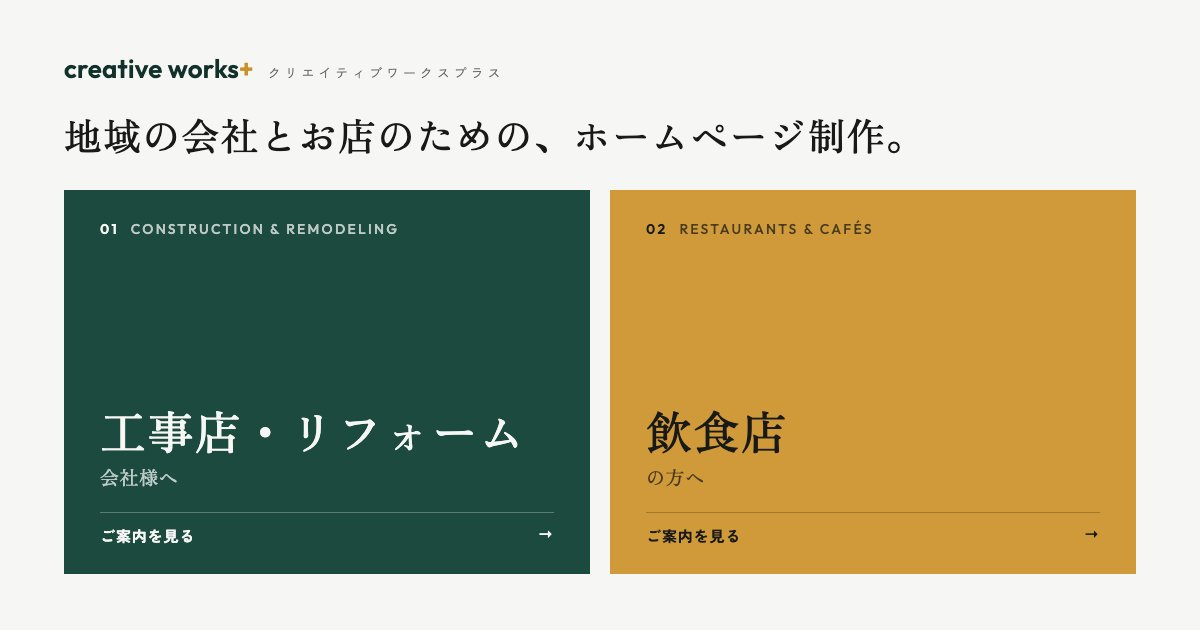
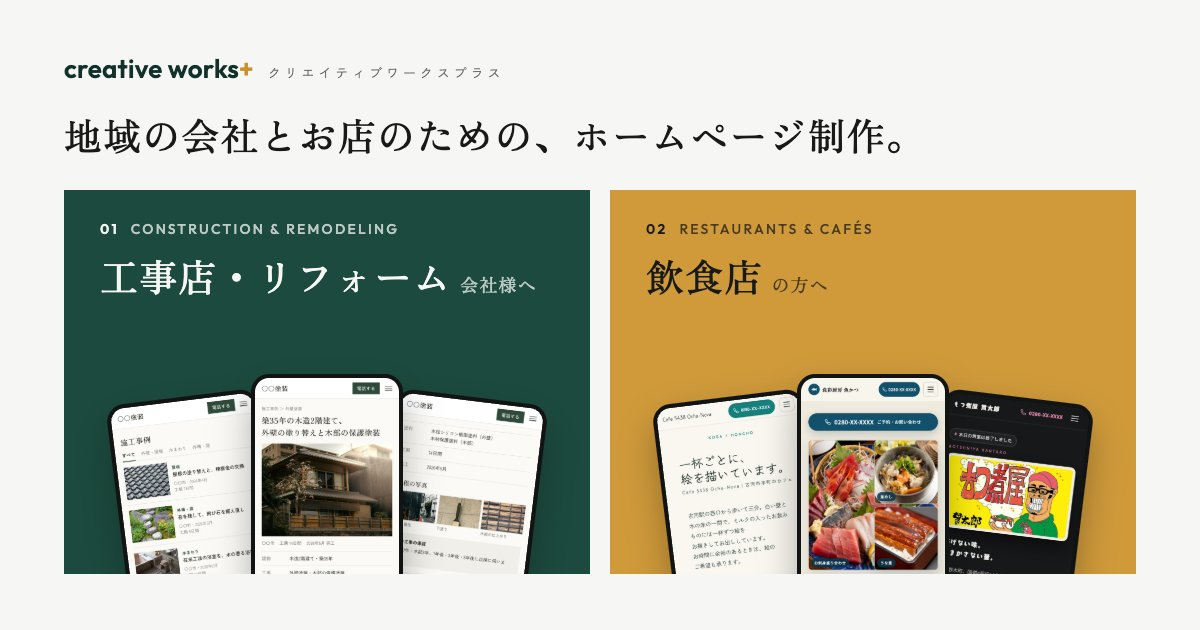
自社LPの入口：扉に見本のスマホ画面を3枚のぞかせる
- 色の面と文字だけでは「地味。クリックしたくなる引きがない」ため、押した先でできあがる画面を見せる
- 工事店＝架空の〇〇塗装の施工事例ページ、飲食店＝飲食店LPと同じ見本サイトの画面
- マウスを乗せると画面が持ち上がって扇が開く。共有用画像（ogp-gate.jpg）も同じ見せ方に

diff --git a/company/index.html b/company/index.html
@@ -142,11 +142,13 @@
 <script>document.documentElement.classList.add('js');</script>
 <style>
 /* ==========================================================================
-   入口（2026-10-03 作り直し・3回目：写真を使わない）
+   入口（2026-10-03 作り直し・4回目：色の面＋大きな明朝＋見本のスマホ画面）
    ・このページの仕事は「工事店・リフォーム」「飲食店」のどちらかを選んでいただくことだけ
-   ・扉は写真ではなく「色の面＋大きな明朝」で見せる（本の表紙の組み方）。
+   ・扉は「色の面＋大きな明朝」に、開いた先でできあがる「ホームページのスマホ画面」を3枚のぞかせる。
      左＝濃緑、右＝金。どちらもロゴ（creative works＋）の2色
-     ★丸藤さん「家の入口とご飯は説明としては合っているが、見た目が悪い。画像なしでよいのでモダンに」（2026-10-03）
+     ★丸藤さん「家の入口とご飯は説明としては合っているが、見た目が悪い。画像なしでよいのでモダンに」（2026-10-03 昼）
+       → 色の面と文字だけにしたら「地味。クリックしたくなる引きがない」（同日）→ 中身（見本の画面）を見せる
+     ・工事店の画面は架空の「〇〇塗装」（版下 _work/gate-mock-reform.html）、飲食店の画面は飲食店LPの works/hero/ と同じもの
    ・★スマホでも2つを左右に並べ、最初の1画面に両方を見せる（縦に積むと、上の1つだけ見て
      「自分向けではない」と離脱される＝丸藤さんの指摘）。iPhone SE（見える高さ約548px）でも収める
    ・扉に金額は載せない（15万円と25万円を同じ画面に並べない＝サービスの定義.md ⑯）
@@ -223,13 +225,15 @@ h1, h2, h3, p, dd, dt, li { word-break: auto-phrase; text-wrap: pretty; }
 .lead { font-size: 14px; color: var(--ink-2); max-width: 25em; line-height: 1.9; }
 
 /* ---------- 扉（2つを左右に並べる。スマホでも縦に積まない） ----------
+   扉の上半分に言葉、下半分に「できあがるホームページのスマホ画面」を3枚、扇のように並べて下へはみ出させる。
+   ★押した先に何があるかが見えないと押されない（色の面と文字だけの版は「地味で、クリックしたくなる引きがない」＝丸藤さん 2026-10-03）
    扉の高さは「画面の高さ − 扉より上」。上の高さは JS が測って --above に入れる */
 .doors { display: grid; grid-template-columns: minmax(0, 1fr) minmax(0, 1fr); gap: var(--gap); }
 .door {
   --bg: var(--a-bg); --bg-on: var(--a-bg-on); --fg: var(--a-fg); --sub: var(--a-sub); --rule: var(--a-rule);
-  position: relative; display: flex; flex-direction: column; min-width: 0;
+  position: relative; display: flex; flex-direction: column; min-width: 0; overflow: hidden;
   height: var(--door-h);
-  padding: clamp(28px, 3vw, 44px) clamp(28px, 3.2vw, 48px) clamp(26px, 2.8vw, 40px);
+  padding: clamp(26px, 2.8vw, 40px) clamp(26px, 3vw, 44px) 0;
   background: var(--bg); color: var(--fg); text-decoration: none;
   transition: background-color .45s ease;
 }
@@ -238,45 +242,62 @@ h1, h2, h3, p, dd, dt, li { word-break: auto-phrase; text-wrap: pretty; }
 /* 左右の扉の中の段（番号／宛名／ひとこと／業種／進む）を、行の高さごとそろえる。
    片方だけ説明が2行に折れても、宛名と説明の位置が左右でずれない（320pxでずれた＝2026-10-03） */
 @supports (grid-template-rows: subgrid) {
-  .doors { grid-template-rows: auto 1fr auto auto auto; row-gap: 0; height: var(--door-h); }
-  .door { display: grid; grid-row: 1 / -1; grid-template-rows: subgrid; row-gap: 0; height: auto; }
-  .door-for { align-self: end; }
+  .doors { grid-template-rows: auto auto auto auto auto 1fr; row-gap: 0; height: var(--door-h); }
+  .door { display: grid; grid-row: 1 / -1; grid-template-rows: subgrid; row-gap: 0; height: auto; align-content: start; }
 }
 
 /* 上：番号と欧文の小さな見出し */
 .door-top {
   display: flex; align-items: baseline; gap: 14px;
-  font-family: var(--font-latin); font-size: 13px; font-weight: 500; letter-spacing: 0.16em; line-height: 1.4;
+  font-family: var(--font-latin); font-size: 12.5px; font-weight: 500; letter-spacing: 0.16em; line-height: 1.4;
 }
 .door-top .no { font-weight: 600; }
 .door-top .en { color: var(--sub); text-transform: uppercase; }
 
-/* 下に寄せた言葉のかたまり：宛先 → ひとこと → 業種の並び → 進むリンク */
-.door-for { margin-top: auto; font-family: var(--font-display); font-weight: 500; letter-spacing: 0.03em; }
-.door-for .big { display: block; font-size: clamp(28px, 3.5vw, 50px); line-height: 1.3; }
-.door-for .sm { display: block; margin-top: 6px; font-size: clamp(14px, 1.3vw, 18px); line-height: 1.5; color: var(--sub); }
-.door-text { display: block; margin-top: clamp(14px, 1.8vw, 22px); font-size: clamp(14px, 1.15vw, 16px); line-height: 1.8; font-weight: 500; }
-.door-kinds { display: block; margin-top: 4px; font-size: 13px; line-height: 1.8; color: var(--sub); }
+/* 宛先 → ひとこと → 業種の並び → 進むリンク */
+.door-for { margin-top: clamp(14px, 1.8vw, 24px); font-family: var(--font-display); font-weight: 500; letter-spacing: 0.03em; }
+.door-for .big { display: inline; font-size: clamp(26px, 3vw, 44px); line-height: 1.3; }
+.door-for .sm { display: inline; margin-left: .4em; font-size: clamp(14px, 1.3vw, 18px); line-height: 1.5; color: var(--sub); }
+.door-text { display: block; margin-top: clamp(8px, 1vw, 12px); font-size: clamp(14px, 1.1vw, 15.5px); line-height: 1.75; font-weight: 500; }
+.door-kinds { display: block; margin-top: 2px; font-size: 12.5px; line-height: 1.8; color: var(--sub); }
 .door-go {
-  position: relative; display: flex; align-items: center; justify-content: space-between; gap: 12px;
-  margin-top: clamp(20px, 2.6vw, 36px); padding-top: 14px; border-top: 1px solid var(--rule);
+  position: relative; justify-self: start; align-self: start; display: inline-flex; align-items: center; gap: 12px;
+  margin-top: clamp(12px, 1.4vw, 18px); padding-bottom: 6px; border-bottom: 1px solid var(--rule);
   font-size: 14px; font-weight: 700; letter-spacing: 0.06em; line-height: 1.5; white-space: nowrap;
 }
-/* 罫の上を左から右へ走る線（マウスを乗せたとき） */
-.door-go::before {
-  content: ""; position: absolute; left: 0; right: 0; top: -1px; height: 1px; background: currentColor;
-  transform: scaleX(0); transform-origin: left center; transition: transform .7s var(--ease-io);
+/* 下線の上を左から右へ走る線（マウスを乗せたとき） */
+.door-go::after {
+  content: ""; position: absolute; left: 0; right: 0; bottom: -1px; height: 1px; background: currentColor;
+  transform: scaleX(0); transform-origin: left center; transition: transform .6s var(--ease-io);
 }
-.door-go .arw { font-family: var(--font-latin); font-weight: 400; font-size: 18px; line-height: 1; transition: transform .35s var(--ease-out); }
+.door-go .arw { font-family: var(--font-latin); font-weight: 400; font-size: 17px; line-height: 1; transition: transform .35s var(--ease-out); }
 
-/* マウスで選ぶ人だけ：乗せた扉の色が少し深くなり、罫の上を線が走り、矢印が進む（扉の幅は変えない） */
+/* 下：見本のスマホ画面3枚。扉の下の縁で切れる（はみ出したぶんは見せない） */
+.door-screens { position: absolute; left: 0; right: 0; bottom: 0; height: var(--scr-area, 46%); pointer-events: none; }
+.phone {
+  --w: clamp(120px, 15vw, 196px);
+  position: absolute; top: var(--y, 0px); left: calc(50% - var(--w) / 2 + var(--x, 0px));
+  width: var(--w); padding: 5px; border-radius: 22px; background: #121313;
+  box-shadow: 0 24px 48px rgba(10, 14, 12, .32), 0 4px 10px rgba(10, 14, 12, .18);
+  transform: translateY(var(--lift, 0px)) rotate(var(--r, 0deg));
+  transition: transform .8s var(--ease-out);
+}
+.phone img { display: block; width: 100%; height: auto; aspect-ratio: 516 / 936; object-fit: cover; object-position: top; border-radius: 17px; background: #e9e8e4; }
+.phone.p1 { --x: calc(var(--w) * -0.86); --y: 26px; --r: -7deg; }
+.phone.p2 { --x: 0px; --y: 0px; --r: 0deg; z-index: 2; }
+.phone.p3 { --x: calc(var(--w) * 0.86); --y: 26px; --r: 7deg; }
+
+/* マウスで選ぶ人だけ：乗せた扉の色が少し深くなり、画面が持ち上がって扇が開き、下線が走る（扉の幅は変えない） */
 @media (hover: hover) and (pointer: fine) {
   .door:hover { background: var(--bg-on); }
-  .door:hover .door-go::before { transform: scaleX(1); }
+  .door:hover .door-go::after { transform: scaleX(1); }
   .door:hover .door-go .arw { transform: translateX(6px); }
+  .door:hover .phone.p1 { --lift: -10px; --r: -10deg; }
+  .door:hover .phone.p2 { --lift: -18px; }
+  .door:hover .phone.p3 { --lift: -10px; --r: 10deg; }
 }
 .door:active { background: var(--bg-on); }   /* スマホで押した瞬間 */
-
+.screens-note { margin-top: 10px; text-align: right; font-size: 12px; color: var(--muted); line-height: 1.7; }
 /* ---------- 入口の下（スクロールした方へ：何者かと連絡先だけ） ---------- */
 .about { padding: clamp(64px, 9vw, 120px) 0 clamp(56px, 8vw, 104px); }
 .about .wrap { display: grid; grid-template-columns: minmax(0, 5fr) minmax(0, 6fr); gap: clamp(32px, 6vw, 88px); }
@@ -309,15 +330,21 @@ h1, h2, h3, p, dd, dt, li { word-break: auto-phrase; text-wrap: pretty; }
 .foot .wrap { display: flex; justify-content: space-between; gap: 16px; flex-wrap: wrap; font-size: 12.5px; color: var(--muted); }
 .foot .copy { font-family: var(--font-latin); letter-spacing: 0.04em; }
 
-/* ---------- 出だしの動き（読み込んだときに1回だけ。1.5秒以内に止まり、あとは何も動かない） ----------
-   見出し → 扉の色の面が下から上へ開く（左 → 右）→ 扉の言葉（上から順に）
+/* ---------- 出だしの動き（読み込んだときに1回だけ。1.6秒以内に止まり、あとは何も動かない） ----------
+   見出し → 扉の色の面が下から上へ開く（左 → 右）→ 扉の言葉 → スマホ画面が下からせり上がる（中 → 左右）
    ★「視差効果を減らす」設定の人には位置と開く動きを止め、ふわっと出る（不透明度）は同じ時間で残す
      （丸藤さんのMacがこの設定。全部止めると何も動いていないように見える＝2026-10-02） */
-.js .title, .js .lead, .js .door > * { opacity: 0; transform: translateY(14px); }
+.js .title, .js .lead, .js .door > :not(.door-screens) { opacity: 0; transform: translateY(14px); }
+.js .phone { opacity: 0; transform: translateY(70px) rotate(var(--r, 0deg)); }
 .js .door { clip-path: inset(100% 0 0 0); }
-.js .is-ready .title, .js .is-ready .lead, .js .is-ready .door > * {
+.js .is-ready .title, .js .is-ready .lead, .js .is-ready .door > :not(.door-screens) {
   opacity: 1; transform: none;
   transition: opacity .7s var(--ease-out), transform .8s var(--ease-out);
+  transition-delay: var(--d, 0ms);
+}
+.js .is-ready .phone {
+  opacity: 1; transform: translateY(var(--lift, 0px)) rotate(var(--r, 0deg));
+  transition: opacity .6s var(--ease-out), transform 1s var(--ease-out);
   transition-delay: var(--d, 0ms);
 }
 .js .is-ready .door {
@@ -330,49 +357,65 @@ h1, h2, h3, p, dd, dt, li { word-break: auto-phrase; text-wrap: pretty; }
 .js .is-ready .d2 { --d: 240ms; }
 .js .is-ready .d1 > * { --d: 560ms; }
 .js .is-ready .d1 > .door-for { --d: 620ms; }
-.js .is-ready .d1 > .door-text, .js .is-ready .d1 > .door-kinds { --d: 700ms; }
-.js .is-ready .d1 > .door-go { --d: 780ms; }
+.js .is-ready .d1 > .door-text, .js .is-ready .d1 > .door-kinds { --d: 680ms; }
+.js .is-ready .d1 > .door-go { --d: 740ms; }
+.js .is-ready .d1 .p2 { --d: 640ms; }
+.js .is-ready .d1 .p1, .js .is-ready .d1 .p3 { --d: 760ms; }
 .js .is-ready .d2 > * { --d: 680ms; }
 .js .is-ready .d2 > .door-for { --d: 740ms; }
-.js .is-ready .d2 > .door-text, .js .is-ready .d2 > .door-kinds { --d: 820ms; }
-.js .is-ready .d2 > .door-go { --d: 900ms; }
-/* 動きが終わったら clip-path の指定を外す（扉の外へはみ出す枠線を切らないため） */
+.js .is-ready .d2 > .door-text, .js .is-ready .d2 > .door-kinds { --d: 800ms; }
+.js .is-ready .d2 > .door-go { --d: 860ms; }
+.js .is-ready .d2 .p2 { --d: 760ms; }
+.js .is-ready .d2 .p1, .js .is-ready .d2 .p3 { --d: 880ms; }
+/* 動きが終わったら、マウスを乗せたときの速さに戻す */
+.js .is-done .phone { transition: transform .8s var(--ease-out); transition-delay: 0ms; }
 .js .is-done .door { clip-path: none; }
 
 @media (prefers-reduced-motion: reduce) {
-  .js .title, .js .lead, .js .door > * { transform: none; }
+  .js .title, .js .lead, .js .door > :not(.door-screens) { transform: none; }
+  .js .phone { transform: rotate(var(--r, 0deg)); }
+  .js .is-ready .phone { transform: rotate(var(--r, 0deg)); transition-property: opacity; }
   .js .door { clip-path: none; opacity: 0; }
   .js .is-ready .door { opacity: 1; transition: opacity .8s ease-out, background-color .45s ease; transition-delay: var(--d, 0ms), 0ms; }
-  .js .is-ready .title, .js .is-ready .lead, .js .is-ready .door > * { transition-property: opacity; }
-  .door-go::before { transition: none; }
+  .js .is-ready .title, .js .is-ready .lead, .js .is-ready .door > :not(.door-screens) { transition-property: opacity; }
+  .door-go::after { transition: none; }
   .door:hover .door-go .arw, .btn:hover .arw { transform: none; }
+  .door:hover .phone { --lift: 0px; }
+  .door:hover .phone.p1 { --r: -7deg; }
+  .door:hover .phone.p3 { --r: 7deg; }
 }
 
 /* ---------- スマホ ---------- */
 @media (max-width: 760px) {
-  :root { --head-h: 56px; --gap: 8px; }
+  :root { --head-h: 56px; --gap: 8px; --door-h: clamp(330px, calc(100svh - var(--above, 140px) - 16px), 520px); }
   .logo { font-size: 17px; }
   .yomi { display: none; }
   .links { gap: 18px; }
   .links a { font-size: 13px; }
   .intro .wrap { grid-template-columns: 1fr; padding-top: 12px; padding-bottom: 16px; }
   .lead { display: none; }   /* 扉を1画面に収めるため。同じ内容は下の「先に、見本を」に書いてある */
-  :root { --door-h: clamp(300px, calc(100svh - var(--above, 140px) - 16px), 470px); }
-  .door { padding: 16px 14px 14px; }
+  .door { padding: 14px 13px 0; }
   .door-top { gap: 8px; font-size: 10.5px; letter-spacing: 0.12em; }
   .door-top .en-x { display: none; }
-  /* 左は2行・右は1行になる。2行ぶんの高さを取って下にそろえ、左右の言葉の高さをそろえる */
-  .door-for .big { font-size: 23px; line-height: 1.32; min-height: calc(23px * 1.32 * 2); display: flex; flex-direction: column; justify-content: flex-end; }
-  .door-for .sm { margin-top: 4px; font-size: 13px; }
-  .door-text { margin-top: 12px; font-size: 12.5px; line-height: 1.65; }
-  .door-kinds { margin-top: 4px; font-size: 11px; line-height: 1.65; }
-  .door-go { margin-top: 14px; padding-top: 10px; font-size: 13px; letter-spacing: 0.04em; }
-  .door-go .arw { font-size: 16px; }
+  .door-for { margin-top: 10px; }
+  /* 左は2行・右は1行になる。宛名と「会社様へ」は縦に積む */
+  .door-for .big { display: block; font-size: 22px; line-height: 1.32; }
+  .door-for .sm { display: block; margin: 2px 0 0; font-size: 12.5px; }
+  .door-text { display: none; }   /* 画面を見せる場所を空けるため。同じことは開いた先の最初に書いてある */
+  .door-kinds { margin-top: 6px; font-size: 11px; line-height: 1.6; }
+  .door-go { margin-top: 10px; font-size: 12.5px; letter-spacing: 0.04em; gap: 8px; padding-bottom: 4px; }
+  .door-go .arw { font-size: 15px; }
+  .door-screens { --scr-area: 44%; }
+  .screens-note { text-align: left; font-size: 11.5px; }
+  .phone { --w: clamp(84px, 27vw, 120px); padding: 3px; border-radius: 14px; box-shadow: 0 14px 28px rgba(10, 14, 12, .3); }
+  .phone img { border-radius: 11px; }
+  .phone.p1 { --x: calc(var(--w) * -0.62); --y: 18px; --r: -8deg; }
+  .phone.p3 { --x: calc(var(--w) * 0.62); --y: 18px; --r: 8deg; }
   .about .wrap { grid-template-columns: 1fr; }
   .co div { grid-template-columns: 5.5em minmax(0, 1fr); gap: 12px; }
 }
 @media (max-width: 359px) {
-  .door-for .big { font-size: 20px; min-height: calc(20px * 1.32 * 2); }
+  .door-for .big { font-size: 19px; }
   .door-top .en { display: none; }
 }
 </style>
@@ -410,6 +453,11 @@ h1, h2, h3, p, dd, dt, li { word-break: auto-phrase; text-wrap: pretty; }
         <span class="door-text"><span class="nw">施工事例を、</span><span class="nw">1件ずつ</span><span class="nw">ページに。</span></span>
         <span class="door-kinds"><span class="nw">建築・</span><span class="nw">塗装・</span><span class="nw">水まわり・</span><span class="nw">内装・</span><span class="nw">造園</span></span>
         <span class="door-go"><span class="nw">ご案内を見る</span><span class="arw" aria-hidden="true">→</span></span>
+        <span class="door-screens" aria-hidden="true">
+          <span class="phone p1"><img src="works/gate/screen-reform-2.jpg" alt="" width="516" height="936" decoding="async"></span>
+          <span class="phone p2"><img src="works/gate/screen-reform-1.jpg" alt="" width="516" height="936" fetchpriority="high"></span>
+          <span class="phone p3"><img src="works/gate/screen-reform-3.jpg" alt="" width="516" height="936" decoding="async"></span>
+        </span>
       </a>
       <a class="door d2" href="restaurant/">
         <span class="door-top"><span class="no">02</span><span class="en">Restaurants<span class="en-x"> &amp; Cafés</span></span></span>
@@ -417,8 +465,14 @@ h1, h2, h3, p, dd, dt, li { word-break: auto-phrase; text-wrap: pretty; }
         <span class="door-text"><span class="nw">お店の</span><span class="nw">ホームページと、</span><span class="nw">Googleの地図。</span></span>
         <span class="door-kinds"><span class="nw">和食・</span><span class="nw">居酒屋・</span><span class="nw">ラーメン・</span><span class="nw">洋食・</span><span class="nw">カフェ</span></span>
         <span class="door-go"><span class="nw">ご案内を見る</span><span class="arw" aria-hidden="true">→</span></span>
+        <span class="door-screens" aria-hidden="true">
+          <span class="phone p1"><img src="works/hero/hero-cafe.jpg" alt="" width="516" height="936" decoding="async"></span>
+          <span class="phone p2"><img src="works/hero/hero-izakaya.jpg" alt="" width="516" height="936" fetchpriority="high"></span>
+          <span class="phone p3"><img src="works/hero/hero-motsuni.jpg" alt="" width="516" height="936" decoding="async"></span>
+        </span>
       </a>
     </nav>
+    <p class="screens-note"><span class="nw">画面は、</span><span class="nw">これまでに</span><span class="nw">おつくりした</span><span class="nw">見本です</span><span class="nw">（工事店・</span><span class="nw">リフォームは</span><span class="nw">架空の例）</span></p>
   </div>
 
   <!-- スクロールした方へ：何者か・連絡先だけ。料金は載せない -->
